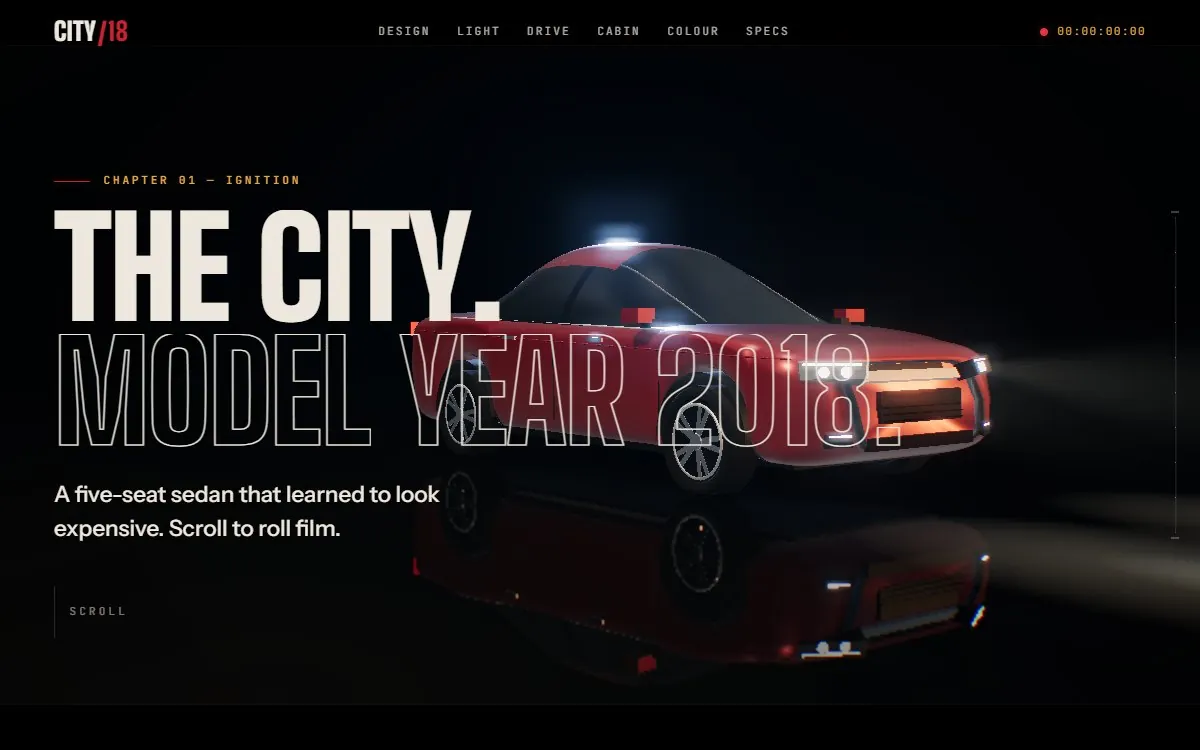
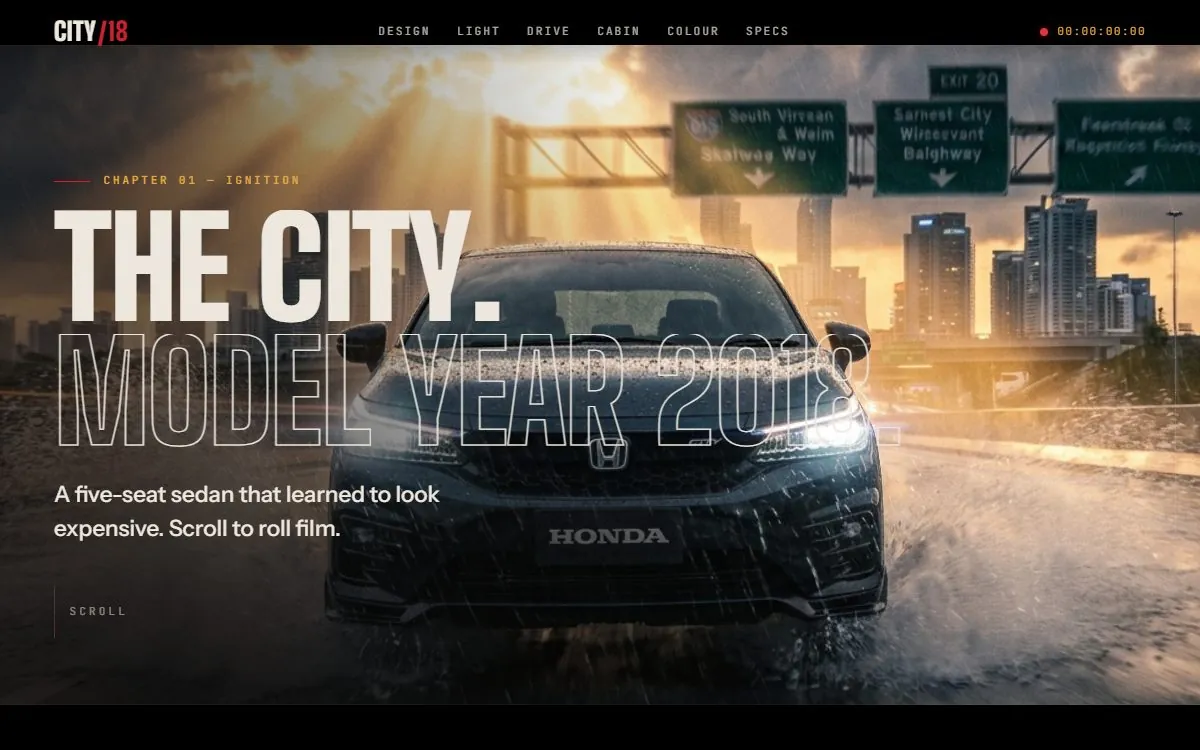
City 2018: fresh screenshot and wording for the real-photo 3D version

diff --git a/index.html b/index.html
@@ -1488,7 +1488,7 @@
   <div class="websites-grid">
     <a class="site-tile" href="https://honda-city-2018.pages.dev/" target="_blank" rel="noopener">
       <div class="site-shot"><img src="websites/honda-city-2018.webp" alt="City 2018 cinematic car website" loading="lazy"><span class="site-live">Live ↗</span></div>
-      <div class="site-info"><span class="site-type">Cinematic car showcase</span><h3>City 2018</h3><p>3D car, scroll-driven camera, film look</p><span class="site-url">honda-city-2018.pages.dev</span></div>
+      <div class="site-info"><span class="site-type">Cinematic car showcase</span><h3>City 2018</h3><p>Real photo turned 3D, scroll camera, film look</p><span class="site-url">honda-city-2018.pages.dev</span></div>
     </a>
     <a class="site-tile" href="https://klarkyy00.github.io/Klark_portfolio/klarkyytech/" target="_blank" rel="noopener">
       <div class="site-shot"><img src="websites/klarkyytech.webp" alt="KlarkyyTech website" loading="lazy"><span class="site-live">Live ↗</span></div>
@@ -2422,10 +2422,10 @@
 
           <div class="section-label">Features</div>
           <ul class="highlights">
-            <li>3D sedan built in code, lit like a night studio shoot with floor reflections and lamp glow</li>
-            <li>Scroll-driven camera through 9 shots: headlamp close-up, spinning wheel, overhead crane, rear exit</li>
+            <li>A real rain-soaked highway photo turned into a 3D scene with an AI depth map, so the camera can move around the car</li>
+            <li>Scroll moves the camera through 9 chapters, and the scene also follows the mouse</li>
             <li>Film look: letterbox bars, grain, chapter title cards and a live timecode</li>
-            <li>Live paint picker in 5 colours, counting stats and a full spec sheet; works on phones</li>
+            <li>Colour-grade picker to restyle the scene, counting stats and a full spec sheet; works on phones</li>
           </ul>
 
           <p style="display:flex;flex-wrap:wrap;gap:10px;margin:14px 0">
@@ -2434,7 +2434,7 @@
           </p>
 
           <div class="stack">
-            <span class="chip">HTML</span><span class="chip">CSS</span><span class="chip">JavaScript</span><span class="chip">Three.js (WebGL)</span><span class="chip">GSAP</span><span class="chip">Cloudflare Pages</span>
+            <span class="chip">HTML</span><span class="chip">CSS</span><span class="chip">JavaScript</span><span class="chip">Three.js (WebGL)</span><span class="chip">AI depth map</span><span class="chip">GSAP</span><span class="chip">Cloudflare Pages</span>
           </div>
         </div>
       </div>
